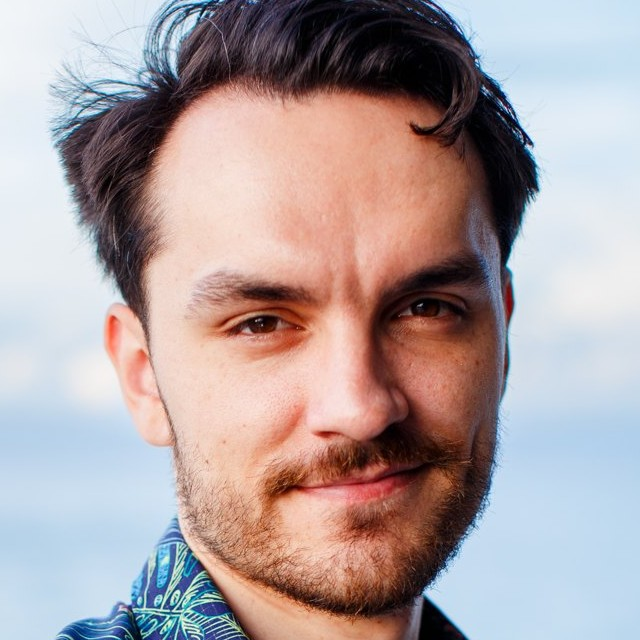
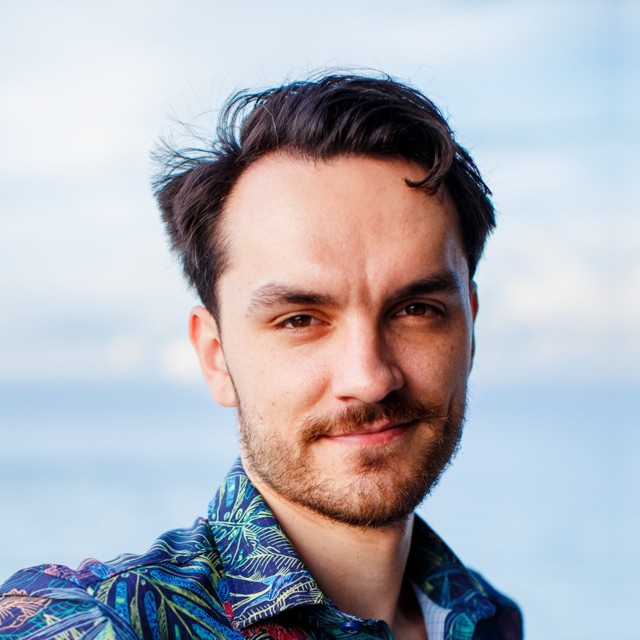
discord: circle photo re-cropped wider and centered on his head; smaller on phones

diff --git a/index.html b/index.html
@@ -79,7 +79,7 @@ body{background:#000;color:#e9e9e9;font-family:Montserrat,sans-serif;font-size:1
 @media(max-width:860px){.name{font-size:58px}.hero .photo{width:100%;opacity:.45}.split,.about-in{grid-template-columns:1fr}}
 .vthumb{text-align:center;line-height:1.25}
 .tclip{color:#c99a4b}
-</style></head><body><header class="top"><nav class="nav"><a href="index.html" class="mark">LK</a><div class="links"><a href="#results">Results</a><a href="#how">How I work</a><a href="work-with-me.html">Pricing</a><a class="btn btn-ghost" href="sms:8654568455">Text me</a></div></nav></header><section class="hero"><div class="photo"></div><div class="wrap"><p class="kick">You've been solving the wrong problem.</p>
+@media(max-width:600px){.ring.big{width:210px;height:210px}.about-in{gap:36px}}</style></head><body><header class="top"><nav class="nav"><a href="index.html" class="mark">LK</a><div class="links"><a href="#results">Results</a><a href="#how">How I work</a><a href="work-with-me.html">Pricing</a><a class="btn btn-ghost" href="sms:8654568455">Text me</a></div></nav></header><section class="hero"><div class="photo"></div><div class="wrap"><p class="kick">You've been solving the wrong problem.</p>
 <h1 class="name">LOGAN<br>KING</h1><p class="sub">I find the <b>real</b> problem, the invisible belief running your money, relationships and confidence, and <b>walk you out of it.</b></p>
 <a class="btn btn-solid" href="sms:8654568455">Text me</a><p class="fine">One conversation &middot; about 30 minutes &middot; no charge</p></div></section>
 <section id="results" class="sec proof"><div class="wrap"><p class="eyebrow">Client experiences</p><h2 class="h2">Their problems looked unsolvable too.</h2>
